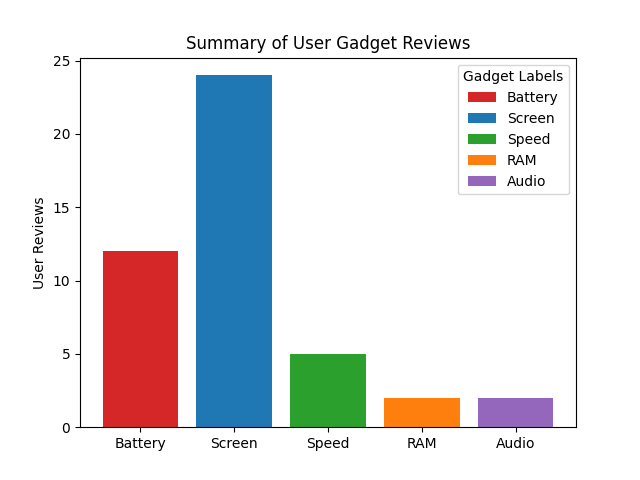
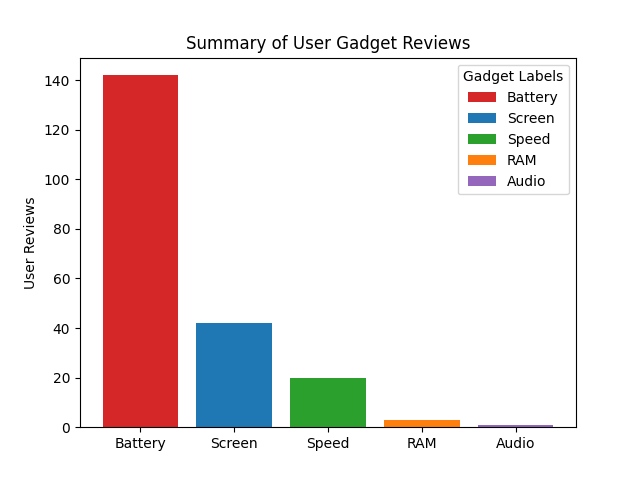
modified:   app.py 	modified:   static/HTML/images/Summary_Graph.png 	modified:   templates/index.html

diff --git a/templates/index.html b/templates/index.html
@@ -249,11 +249,10 @@
         <!-- For Recommendation Result -->
         <div class="col-4">
           <div class="card card-bgcolor-body">
-              <div class="card-header card-bgcolor-head"><i class="fa-solid fa-cart-shopping"></i> Recommendation Result from Prediction</div>
+              <div class="card-header card-bgcolor-head"><i class="fa-solid fa-cart-shopping"></i>System Recommendation</div>
               <div class="card-body overflow-auto" style="height: 250px;">
-                  <p class="card-text ">Based on Model Simulated using LSTM
-                    {{str_result_reco | safe }} <br><br>
-                    {{str_result_dt | safe }}
+                  <p class="card-text ">
+                    {{str_rating_result | safe }}
                   </p>
               </div>
           </div>

diff --git a/app.py b/app.py
@@ -68,7 +68,7 @@ def encode(text):
 @lru_cache(maxsize=128)
 def dt_predict_recommendation(model_name):
     try:
-        model_name ="iphone 13"    
+        # model_name ="iphone 13"    
         mysqlconn.reconnect()
         model_reviews_df = pd.read_sql(f"SELECT Reviews FROM gadget_reviews WHERE Model = '{model_name}'", mysqlconn)
         if model_reviews_df.empty:
@@ -79,10 +79,14 @@ def dt_predict_recommendation(model_name):
         predicted_ratings = dtc.predict(model_reviews_vectorized)
         average_rating = predicted_ratings.mean()
 
-        if average_rating >= .5:
-            return f"The model '{model_name}' is likely to be recommended (average predicted rating: {average_rating:.2f})."
+        if average_rating >=0:
+            return average_rating
         else:
-            return f"The model '{model_name}' is not likely to be recommended (average predicted rating: {average_rating:.2f})."
+            return 0
+        # if average_rating >= .5:
+        #     return f"The model '{model_name}' is likely to be recommended (average predicted rating: {average_rating:.2f})."
+        # else:
+        #     return f"The model '{model_name}' is not likely to be recommended (average predicted rating: {average_rating:.2f})."
 
     except Exception as e:
         return f"An error occurred: {e}"
@@ -106,15 +110,17 @@ def lstm_predict_recommendation(gadgetmodel):
             predictions.append(output.item())
 
     avg_pred = np.mean(predictions)
-    star_rating = round(avg_pred * 4) + 1  # ensures 0.0 → 1 star, 1.0 → 5 stars
+    return avg_pred
+    # scaled_rating = round(avg_pred * 5 * 2) / 2
+    # full_stars = int(scaled_rating)
+    # half_star = 1 if scaled_rating - full_stars == 0.5 else 0
+    # empty_stars = 5 - full_stars - half_star
+    # visual_stars = '★' * full_stars + '½' * half_star + '☆' * empty_stars
 
-    # Generate visual stars
-    visual_stars = '★' * star_rating + '☆' * (5 - star_rating)
+    # # return f"Prediction for '{gadgetmodel}' with average prediction of {avg_pred} : {'Recommend' if avg_pred >= 0.5 else 'Not Recommend'}"
+    # return (f"The gadget '{gadgetmodel}' is {'Recommend' if avg_pred >= 0.5 else 'Not Recommend'}\n"
+    # f"With Rating of: {scaled_rating} / 5  {visual_stars}")
 
-    # return f"Prediction for '{gadgetmodel}' with average prediction of {avg_pred} : {'Recommend' if avg_pred >= 0.5 else 'Not Recommend'}"
-    return (f"Prediction for '{gadgetmodel}': {'Recommend' if avg_pred >= 0.5 else 'Not Recommend'}\n"
-        f"Average Score: {avg_pred:.2f}\n"
-        f"Estimated Star Rating: {star_rating} / 5  {visual_stars}")
 def sub_datacleaning_reco(temp_df):
     temp_df = temp_df.dropna(subset=['Reviews'])
     temp_df = temp_df[temp_df['Reviews'].str.strip() != '']
@@ -185,11 +191,13 @@ def modelrecommendation():
     top_reco, k_count = sub_KMeans(type)
     print ("----->>> COMPLETED - TOP AND K")
 
-    str_result_dt = dt_predict_recommendation(gadgetmodel)
+    dt_rating = dt_predict_recommendation(gadgetmodel)
     print ("----->>> COMPLETED - DECISION TREE RECOMMENDATION")
 
-    str_result_reco = lstm_predict_recommendation(gadgetmodel)
+    lstm_rating = lstm_predict_recommendation(gadgetmodel)
     print ("----->>> COMPLETED - LSTM RECOMMENDATION/PREDICTION")
+
+    str_rating_result = sub_generate_rating(dt_rating, lstm_rating, gadgetmodel)
 
     return render_template("index.html",
                         shop_loc_list = shop_loc_list,
@@ -201,12 +209,13 @@ def modelrecommendation():
                         str_recommendation = summary_reco,
                         str_featreco = featured_reco,
                         str_details = detailed_reco,
-                        str_result_reco = str_result_reco,
-                        str_result_dt = str_result_dt,
                         complete_gadget = complete_gadget,
                         top_reco = top_reco,
                         k_count = k_count,
+                        str_rating_result = str_rating_result,
                         summary_graph = "./static/HTML/images/Summary_Graph.png"
+                        # str_result_reco = str_result_reco,
+                        # str_result_dt = str_result_dt,
                         )
 
 @app.route("/uploadCSV", methods=["GET", "POST"])
@@ -458,6 +467,17 @@ def sub_datacleaning(temp_df):
     temp_df = temp_df[temp_df["Rating"].isin([0, 1])]
 
     return temp_df
+
+def sub_generate_rating(dt_rating, lstm_rating, gadgetmodel):
+    overall_rating = (dt_rating + lstm_rating) / 2
+
+    scaled_rating = round(overall_rating * 5 * 2) / 2
+    full_stars = int(scaled_rating)
+    half_star = 1 if scaled_rating - full_stars == 0.5 else 0
+    empty_stars = 5 - full_stars - half_star
+    visual_stars = '★' * full_stars + '½' * half_star + '☆' * empty_stars
+    return (f"Estimated Star Rating: {scaled_rating} / 5  {visual_stars}"
+    f"\n This gadget '{gadgetmodel} is ' {'Recommend' if overall_rating >= 0.5 else 'Not Recommend'} based on the system evaluation.")
 
 def attrib_table(temp_df_attrib):
     #--------------------------------------------------------------------------------------------
